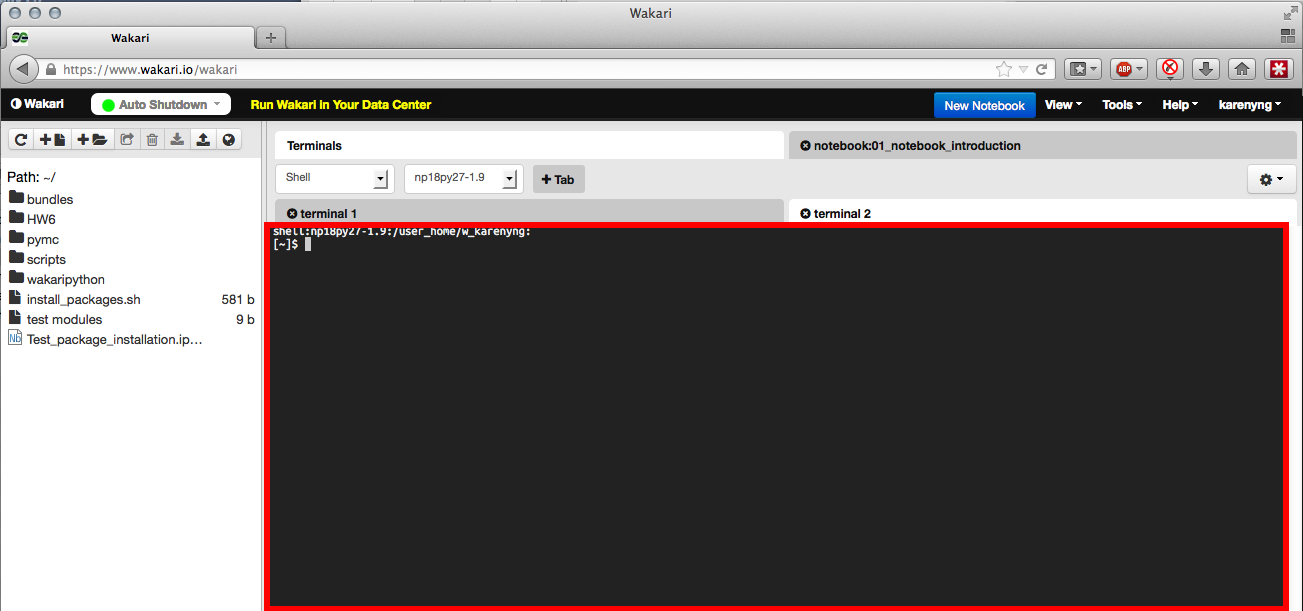
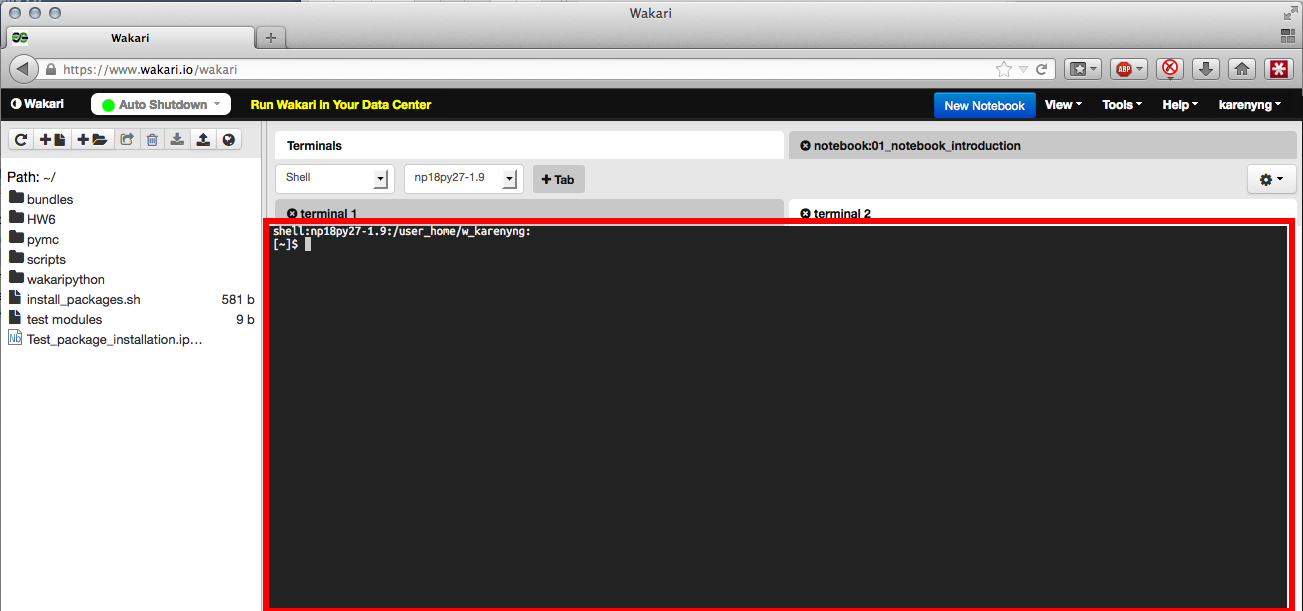
updates

Changed region(s): [[0.1842, 0.3421, 1.0, 1.0]]

diff --git a/index.html b/index.html
@@ -10,14 +10,17 @@
 <li>First log onto your wakari account.<br />Notice the icon on the top left on the wakari page which looks like:</li>
 </ol>
 <div class="figure">
-<img src="./wakari_homepage.png" />
+<img src="./wakari_homepage.png" width="1000"/>
 </div>
 <ol start="2" style="list-style-type: decimal">
 <li><p>After clicking the icon, there should be a popup window asking you a web file to import, enter the following the URL:<br /><em>https://raw.githubusercontent.com/karenyyng/Phy154/master/install_packages.sh</em></p></li>
-<li><p>Then the script for setting up python packages should be downloaded to your wakari.io account. <img src="./use_terminal.png" /></p></li>
-<li><p>Make sure that you are really using &quot;Shell&quot; not &quot;IPython&quot; <img src="./open_terminal.png" /></p></li>
+<li><p>Then the script for setting up python packages should be downloaded
+to your wakari.io account. <img src="./use_terminal.png" width="1000"/></p></li>
+<li><p>Make sure that you are really using &quot;Shell&quot; not
+&quot;IPython&quot;<br> <img src="./open_terminal.png" width="1000"/></p></li>
 </ol>
-<p>This is how the shell should look like. <img src="./shell.png" /></p>
+<p>This is how the shell should look like. <br> <img src="./shell.png"
+width="1000"/></p>
 <ol start="5" style="list-style-type: decimal">
 <li><p>After switching to the terminal, type the following command (notice [~]$ is the terminal prompt and not part of the command) then press enter</p>
 <pre class="sh"><code>[~]$chmod u+x ./install_packages.sh </code></pre></li>
